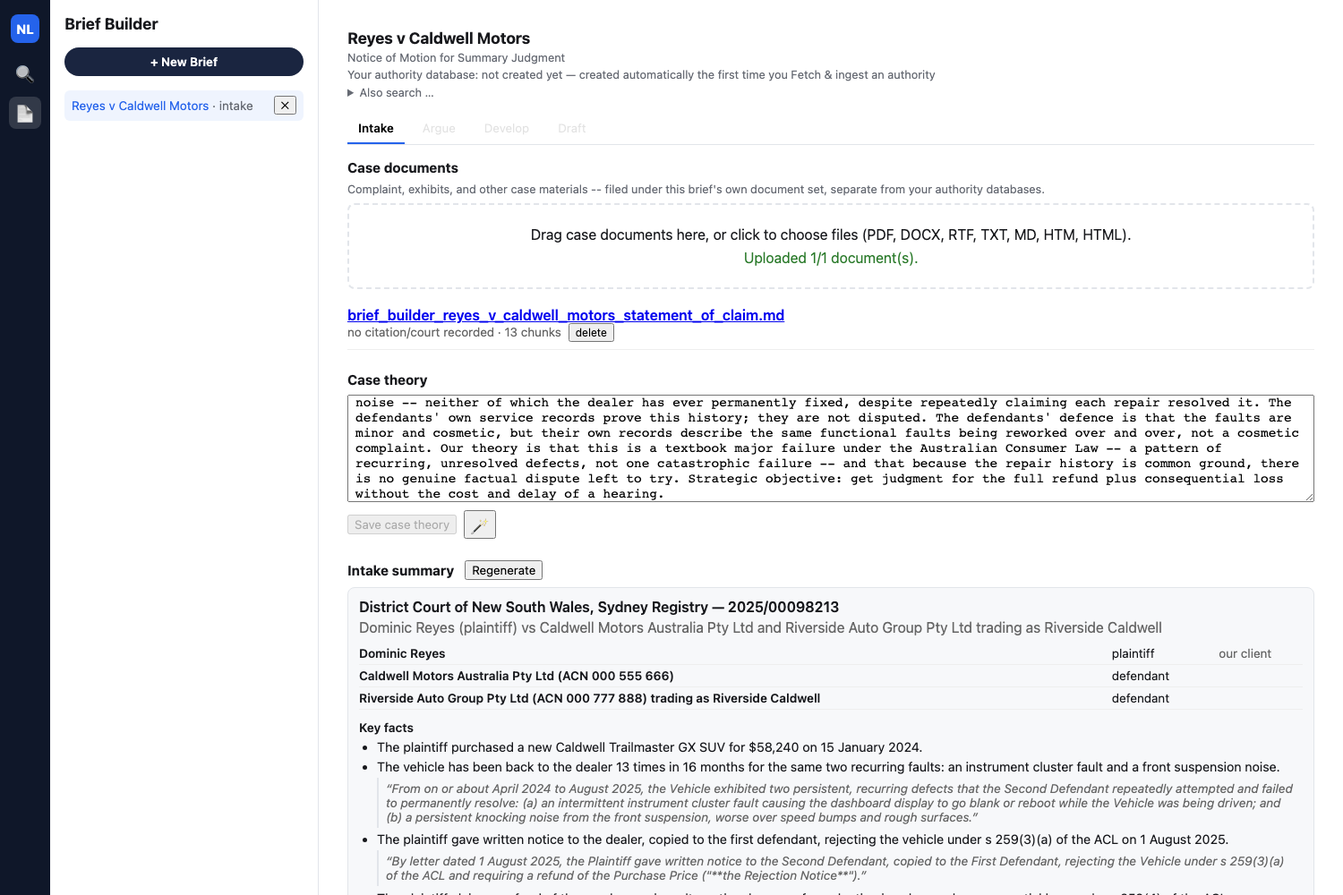
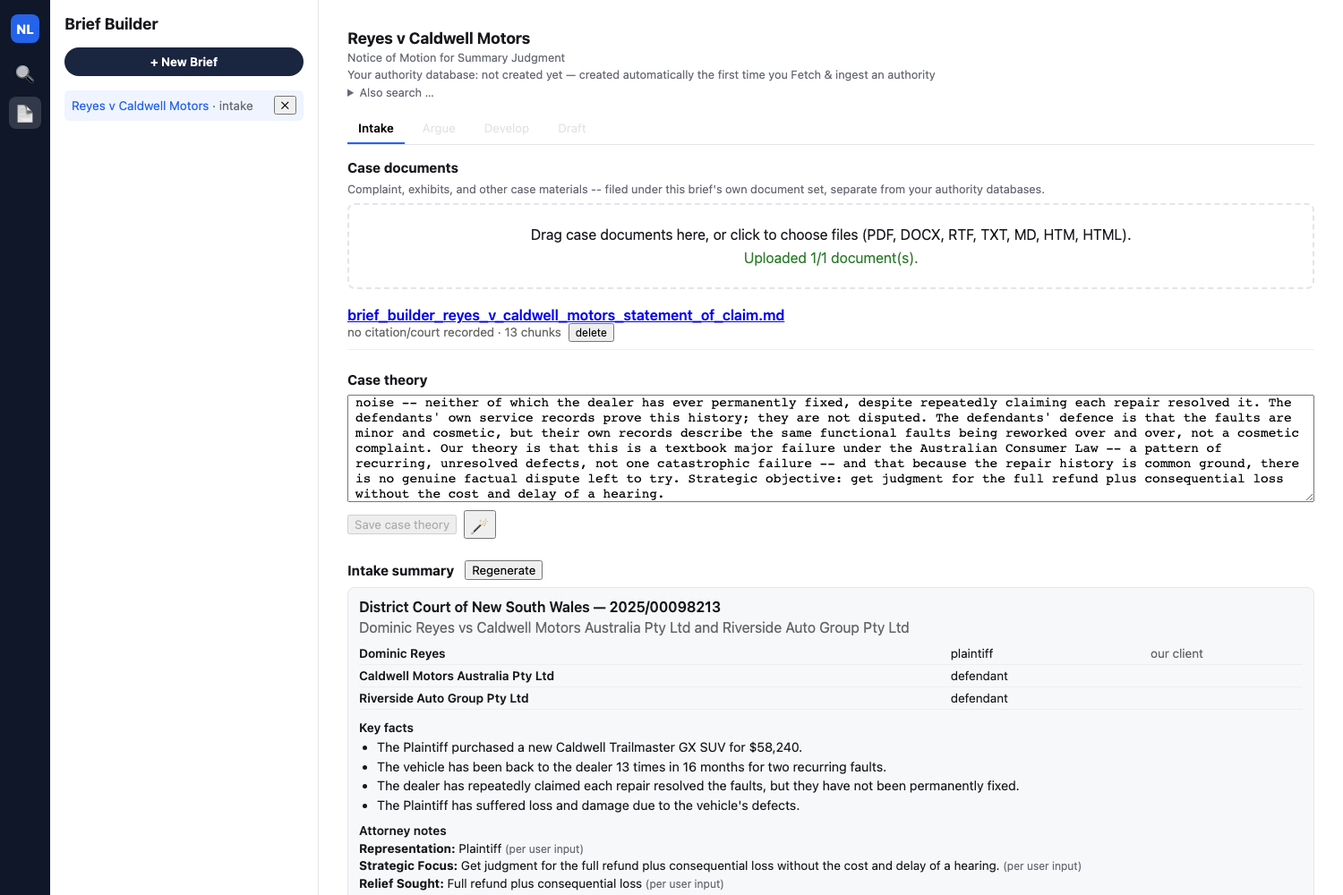
Rewrite Part 4 around the plain-English search and citation-graph re-run
Replace all screenshots with the latest demo re-run and follow its new
structure: a non-specialist plain-English NSW Caselaw search instead
of typing the case's own name, McNally grounding two arguments before
anyone searches further, a new citation-graph leads panel offering
one-click cases pulled from an already-fetched judgment's own text,
argument 3 staying honestly ungrounded even with two real authorities
in the database, and a fourth argument added afterward that grounds
immediately on the shared authority pool. Drop the old bug-history
framing entirely -- this run has none to report.

diff --git a/content/agenticaiforprofessionals4.md b/content/agenticaiforprofessionals4.md
@@ -1,21 +1,21 @@
 ---
 title: "Agentic AI for Professionals"
 part: 4
-description: "Building a Brief Builder feature into nsw-legal-research-assistant, inspired by Thomson Reuters CoCounsel Legal's newly announced Brief Builder — intake, candid argument proposals, live NSW Caselaw search, and citation-following from one judgment into a second"
+description: "Building a Brief Builder feature into nsw-legal-research-assistant, inspired by Thomson Reuters CoCounsel Legal's newly announced Brief Builder — intake, candid argument proposals, a plain-English NSW Caselaw search a non-specialist would actually type, citation-graph leads pulled straight out of a judgment's own text, and a fourth argument grounded on two authorities it never had to fetch itself"
 date: "2026-08-26"
 categories: ["AI"]
-image: "/assets/images/agenticaiforprofessionals4/00-brief-already-open-draft.png"
-tags: "brief-builder, citation-following, legal-tech, nsw-caselaw, hallucination-detection"
+image: "/assets/images/agenticaiforprofessionals4/18-draft-final.png"
+tags: "brief-builder, citation-following, citation-graph, legal-tech, nsw-caselaw"
 hidden: false
 slug: "agenticaiforprofessionals4"
 ---
 
 [Part 1](/posts/agenticaiforprofessionals1/) covered the research and the plan; [Part 2](/posts/agenticaiforprofessionals2/) covered the RAG core; [Part 3](/posts/agenticaiforprofessionals3/) ran the app live against Thomson Reuters' own "Search a Database" and "Review Documents" demo. This post is a new feature entirely: **Brief Builder**, inspired by the newly announced Brief Builder feature in Thomson Reuters CoCounsel Legal — take a pleading in, propose candid arguments, develop each one against real authority, and produce a properly formatted motion.
 
-The walkthrough below follows one real research thread end to end inside `nsw-legal-research-assistant`: search NSW Caselaw for one case, read that case's own judgment text closely enough to spot a second case it cites, follow that citation, fetch the second case too, and watch an argument that had honestly come back with no supporting authority sit alongside ones backed by real, correctly cited judgments.
+The walkthrough below follows one real research thread end to end inside `nsw-legal-research-assistant`, deliberately typed the way a non-specialist actually would: search NSW Caselaw with a plain-English description, not the case's own name; read the case that turns up closely enough to follow what it cites; and watch one argument stay honestly ungrounded even after two real authorities are sitting in the database, because neither one actually bears on it. Along the way, a newer feature gets its first real workout: when a develop call comes back ungrounded, the app now offers one-click leads pulled straight out of an already-fetched judgment's own citation list.
 
-![](assets/images/agenticaiforprofessionals4/00-brief-already-open-draft.png)
-*Reyes v Caldwell Motors already open at the Draft stage, the finished state of the walkthrough below*
+![](assets/images/agenticaiforprofessionals4/18-draft-final.png)
+*Draft tab: the finished motion, four arguments deep, the state the walkthrough below ends up at*
 
 ## The case
 
@@ -23,15 +23,13 @@ Dominic Reyes bought a new Caldwell Trailmaster GX SUV for $58,240. It went back
 
 ## Beat 1 — Intake: upload, case theory, and a generated summary
 
-Uploading the statement of claim directly produces a rename-suggestion box, then a real generated Intake Summary. The caption, key facts, and attorney notes are all pulled from the uploaded pleading, including a verbatim quote:
+Uploading the statement of claim directly produces a rename-suggestion box, then a real generated Intake Summary. The caption, parties, key facts, and attorney notes are all pulled from the uploaded pleading.
 
 ![](assets/images/agenticaiforprofessionals4/03-title-suggestion.png)
 *The rename-suggestion box right after upload*
 
-> The vehicle exhibited two persistent, recurring defects: an intermittent instrument cluster fault and a persistent knocking noise from the front suspension. **Quote**: "From on or about April 2024 to August 2025, the Vehicle exhibited two persistent, recurring defects that the Second Defendant repeatedly attempted and failed to permanently resolve:"
-
 ![](assets/images/agenticaiforprofessionals4/04-intake-summary.png)
-*Full generated Intake Summary — caption, key facts with verbatim source quotes, attorney notes*
+*Full generated Intake Summary — caption, parties table, key facts, attorney notes*
 
 ## CASE THEORY
 
@@ -41,60 +39,101 @@ We act for the plaintiff, Dominic Reyes. He bought a new Caldwell Trailmaster GX
 Strategic objective: get judgment for the full refund plus consequential loss without the cost and delay of a hearing.
 ```
 
-The quote field is verified as an exact substring of the source chunk before it is ever shown. A close-but-wrong quote gets dropped rather than displayed — the same non-negotiable citation-grounding rule from [Part 2](/posts/agenticaiforprofessionals2/) applied to a pleading instead of a case database.
+Every key fact is verified as an exact substring of the uploaded document before it is ever shown. A fact that can't be matched gets dropped rather than displayed — the same non-negotiable citation-grounding rule from [Part 2](/posts/agenticaiforprofessionals2/) applied to a pleading instead of a case database.
 
 ## Beat 2 — Argue: candid, ranked arguments
 
 From the case theory, the app proposes five arguments and ranks them, with three selected:
 
-1. The plaintiff has established a major failure under the ACL, with no genuine dispute as to the facts — *selected*
-2. The defendants' conduct in repeatedly claiming repairs resolved the faults when they did not is a breach of the ACL's implied warranty of merchantability — *selected*
-3. A major failure under the ACL can be constituted by a single defect or by several defects taken together — *selected*
-4. The defendants' defence is a sham, as they have conceded the facts through their own service records
-5. The plaintiff is entitled to damages for reduction in value under s 259(4) of the ACL
+1. The plaintiff's claim discloses a major failure under the Australian Consumer Law — *selected*
+2. There is no genuine dispute about the existence of defects and their impact on the vehicle's functionality — *selected*
+3. The defendants' repeated claims that each repair resolved the faults are contradicted by their own records — *selected*
+4. The plaintiff has suffered loss and damage due to the vehicle's defects
+5. The defendants have breached their statutory warranty obligations under the Australian Consumer Law
 
 ![](assets/images/agenticaiforprofessionals4/05-argue-proposals.png)
 *Argue tab: three of five arguments selected*
 
-Argument 3's heading is not generic phrasing — it states the exact legal test one specific authority sets out, because that is what it ends up resting on entirely once Beat 4 below finds that authority. It did not come out of the AI proposal this way; it is a manual rewrite of the AI's own third proposal, same as any other edited argument.
+No manual rewriting this run — arguments 1 through 3 go into Develop exactly as the LLM proposed them, wording and all.
 
 ![](assets/images/agenticaiforprofessionals4/06-argue-argument1-expanded.png)
 *Argument 1 expanded, showing its real factual support and strategic value*
 
-## Beat 3 — Develop: search NSW Caselaw, fetch a real case
+## Beat 3 — Develop argument 1: search NSW Caselaw the way a non-specialist would
 
-The Develop tab starts honestly empty for a fresh brief, then searches NSW Caselaw directly — no login, no browser automation for this source, a live lookup against the official government portal.
+The Develop tab starts honestly empty for a fresh brief.
 
 ![](assets/images/agenticaiforprofessionals4/07-develop-empty.png)
 *Develop tab before any authority has been fetched — three argument cards, no authority database yet*
 
-Searching "McNally Central Coast Automotive Gosford Nissan" returns a real top hit:
+Searching NSW Caselaw for the target case deliberately avoids two traps a real non-specialist would actually hit: typing the case's own name, which nobody would know in advance, and the colloquial American term "lemon law," which NSW Caselaw's live keyword search handles badly — a separately-verified search for "NSW car lemon laws" turns up *Regina v Lemon* [2000] NSWCCA 232, a defendant literally surnamed Lemon, and nothing on point. Typing the plain-English `defective motor vehicle` instead returns a real, on-topic result set with the target case as the **second** hit:
 
-> McNally v Central Coast Automotive Pty Ltd t/as Gosford Nissan [2025] NSWCATCD 111
+> Ismail v Nissan Motor Co (Australia) Pty Limited & anor [2014] NSWCATCD 189
+>
+> **McNally v Central Coast Automotive Pty Ltd t/as Gosford Nissan [2025] NSWCATCD 111**
+>
+> Morissi v Syed [2022] NSWCATAP 162
 
-![](assets/images/agenticaiforprofessionals4/08-search-mcnally.png)
-*NSW Caselaw search results for McNally, real top hit*
+![](assets/images/agenticaiforprofessionals4/08-search-defective-motor-vehicle.png)
+*NSW Caselaw search results for "defective motor vehicle" — McNally as the second hit, every other result genuinely on-topic too*
 
-Clicking **Fetch & ingest** pulls the live judgment into this brief's own authority database. A banner above the stage tabs, persistent on every tab, tracks that database's real state — it reads "not created yet" before this click, and updates to a real, running count the moment the first fetch lands: "Brief authorities — Reyes v Caldwell Motors (7670c444) (1)". The `(7670c444)` suffix is real disambiguation behaviour, not a bug — collection names are globally unique, and it kicks in whenever another collection already claims the exact same name.
+Clicking **Fetch & ingest** pulls the live judgment into this brief's own authority database, lazily creating it on the spot, and re-runs Develop on argument 1 automatically. The top-of-page banner tracks the database's real, running count from here on: "Brief authorities — Reyes v Caldwell Motors (c40af6ba) (1)" — the `(c40af6ba)` suffix is real collection-name disambiguation, not a bug, kicking in whenever another collection already claims the same name.
 
-Searching NSW Caselaw again for a case already in this brief's authority database shows **✓ Already ingested** in place of a live "Fetch & ingest" button, so re-running an earlier search cannot silently duplicate work already done.
+![](assets/images/agenticaiforprofessionals4/09-develop-authority-database.png)
+*Develop tab: authority database now shows (1), argument 1 auto-developed*
 
-![](assets/images/agenticaiforprofessionals4/19-search-already-ingested.png)
-*Searching McNally again shows "✓ Already ingested" instead of a clickable "Fetch & ingest" button*
+Redeveloping argument 1 once the authority database has settled produces its full, real grounded reasoning, citing McNally directly for the test the Appeal Panel actually applied:
 
-The same fetch also re-runs Develop on argument 1 automatically, and its real reasoning is worth reading closely — every case it names carries its own real party name attached to its own real citation number, McNally's included.
+> The plaintiff's claim discloses a major failure under the Australian Consumer Law... The principles established in McNally v Central Coast Automotive Pty Ltd t/as Gosford Nissan [2025] NSWCATCD 111 provide further guidance on the test for a major failure. The Appeal Panel in that case held that a major failure may be constituted by one defect or a series of specific or individual defects which, when taken as a whole, constitute a major failure...
 
-![](assets/images/agenticaiforprofessionals4/16-develop-fixed-authority-database.png)
-*Argument 1's real reasoning — every citation, including McNally's, carries its own real party name*
+![](assets/images/agenticaiforprofessionals4/10-arg1-developed-grounded.png)
+*Argument 1's full grounded reasoning*
 
-## Beat 4 — Follow the citation: from McNally to Safi
+## Beat 4 — Develop argument 2: also grounds on McNally alone
 
-This is the beat worth watching closely. Clicking McNally's citation marker in argument 1's Authorities list opens an in-app split-pane preview rather than a new browser tab — the pane loads the real judgment text, synthesized from the extracted chunk text since McNally has no locally stored file, scrolled straight to the cited page, with an **Open original ↗** link to the real `caselaw.nsw.gov.au` page alongside it.
+Clicking **Develop** on argument 2 grounds again — McNally's judgment is long and substantive enough to bear on more than one argument in this brief:
 
-![](assets/images/agenticaiforprofessionals4/17-authority-preview-in-app.png)
-*In-app split-pane preview for a live-fetched authority citation, jumped to its cited page, with "Open original ↗"*
+> The Defendant's assertion that there is a genuine dispute about the existence of defects and their impact on the Vehicle's functionality is without merit... The Tribunal's decision in McNally v Central Coast Automotive Pty Ltd t/as Gosford Nissan [2025] NSWCATCD 111 supports this conclusion. While the Tribunal ultimately found that the applicant had failed to establish that the consumer guarantee under s 54 of the ACL had been breached, the fact that the Tribunal noted the existence of faults with the vehicle and the applicant's reasonable attempts to have it repaired underscores the complexity of the dispute...
 
-Reading on, McNally's own judgment text names and quotes a second case directly at paragraph 42:
+![](assets/images/agenticaiforprofessionals4/11-arg2-developed-grounded.png)
+*Argument 2's full grounded reasoning*
+
+That candidly includes an unfavourable detail about McNally — the Tribunal there actually found *against* the applicant on the substantive point. Nothing is filtered for favourability before it goes into the reasoning.
+
+## Beat 5 — Develop argument 3: ungrounded, and a new kind of help
+
+Argument 3 is really about the evidentiary weight of the defendants' own service records, not the ACL's substantive "major failure" test McNally's text is actually about, so developing it comes back honest:
+
+> No supporting authority found in your authority database for this argument.
+
+Right below that, a feature new to this build: a second section pulls related cases and legislation straight out of the citation graph of documents already sitting in the authority database — no search, nobody typed anything:
+
+> Related cases/legislation found via the citation graph of documents already in your authority database:
+>
+> Khan v Kang · Prendergast v Western Murray Irrigation Ltd · Collins v Urban · Resource Pacific Pty Ltd v Wilkinson · P v Child Support Registrar · Cary Boyd v Agrison Pty Ltd · Australian Rong Hua Fu Pty Ltd v Ateco Automotive · Stephens v Chevron Motor Court Ltd — each with its own **Open ↗** and **Fetch & ingest**
+
+![](assets/images/agenticaiforprofessionals4/12-arg3-citation-graph-leads.png)
+*Argument 3, ungrounded: the new citation-graph leads panel alongside the older manual-search suggestions*
+
+Nobody searched for any of these — the app regex-extracts every case-name-and-citation pair McNally's own judgment text mentions, and whenever a develop call comes back ungrounded, offers whichever of those aren't already ingested anywhere in the app as one-click leads. The older "search terms worth trying manually" suggestions still appear underneath, unchanged — generic LLM-guessed terms, not real citations, clearly a different tier of trust from the citation-graph leads sitting above them.
+
+## Beat 6 — Follow the citation the long way: from McNally to Safi
+
+None of the eight leads above is squarely the case McNally's own reasoning leans on most. Following that one down by hand — reading the source, then searching for it by name — shows the leads panel is a shortcut for real legal research, not a replacement for it.
+
+Clicking McNally's citation marker in argument 1's Authorities list opens an in-app split-pane preview: the pane loads the real judgment text, synthesized from the extracted chunk text since McNally has no locally stored file, scrolled straight to the cited page, with an **Open original ↗** link to the real `caselaw.nsw.gov.au` page.
+
+![](assets/images/agenticaiforprofessionals4/13-authority-preview-in-app.png)
+*In-app split-pane preview for a live-fetched authority citation, with "Open original ↗"*
+
+Opening the original confirms the lead independently — the real page's own "Cases Cited" metadata block lists it directly:
+
+> Cases Cited:
+> Crooks v Hyundai Motor Company Australia Pty Ltd [2023] NSWCATCD 29
+> Edwards v Caravan v RV Central Pty Ltd [2022] NSWCATD 26
+> Safi v Heartland Motors Pty Ltd t/as Heartland Chrysler [2016] NSWCATAP 80
+
+Reading the judgment text itself turns up the same case named directly at McNally's own paragraph 42:
 
 > In *Safi v Heartland Motors Pty Ltd t/as Heartland Chrysler* [2016] NSWCATAP 80 ("Safi") the Appeal Panel of NCAT set out a helpful summary of the approach and principles to be applied in the construction of section 260.
 
@@ -102,45 +141,35 @@ Reading on, McNally's own judgment text names and quotes a second case directly 
 
 > [101] 1. A major failure may be constituted by one defect or a series of specific or individual defects which, when taken as a whole, constitute a major failure.
 
-![](assets/images/agenticaiforprofessionals4/09-mcnally-cites-safi.png)
-*McNally's own real judgment text, paragraph 42, naming and quoting Safi*
+Searching NSW Caselaw for Safi by name — no longer specialist knowledge at this point, just a name read off a real page two steps ago — returns it as the real top hit, and **Fetch & ingest** adds it to the brief's authority database too.
 
-That is a citation worth following. Reyes has two separate recurring defects — instrument cluster, suspension — so a case squarely holding that several defects taken together can constitute a major failure is directly useful, more useful for this specific point than anything the initial search turned up by name. Searching NSW Caselaw again for Safi returns it as the real top hit:
-
-![](assets/images/agenticaiforprofessionals4/10-search-safi.png)
+![](assets/images/agenticaiforprofessionals4/14-search-safi.png)
 *NSW Caselaw search results for Safi*
 
-**Fetch & ingest** adds Safi to the brief's authority database too — found only because someone actually read what McNally cited, not because it turned up in the first search.
+Redeveloping argument 3 once more, now that both McNally and Safi are in the database, still comes back honestly ungrounded — not a bug. Neither judgment discusses the evidentiary weight of a defendant's own service records; both are about the substantive ACL tests, a different legal question from what this argument's own heading actually asks. Having more authorities sitting in the database doesn't manufacture relevance where there isn't any. Re-opening the search panel and searching "McNally" again shows **✓ Already ingested** in place of a live "Fetch & ingest" button.
 
-## Beat 5 — Redevelop: grounded reasoning, and an honest "nothing found"
+![](assets/images/agenticaiforprofessionals4/15-search-already-ingested.png)
+*Argument 1's grounded reasoning again, and a search panel showing "✓ Already ingested" for a lead already in this brief's authority database*
 
-Now that Safi is in the authority database, clicking **Redevelop** on argument 3 produces real, grounded output:
+## Beat 7 — A fourth argument, grounded on both authorities together
 
-> The Australian Consumer Law (ACL) provides comprehensive protection for consumers against defective goods. In the present case, the plaintiff returned the vehicle to the second defendant for inspection and repair on 13 occasions, indicating a significant defect that persisted despite repeated attempts at remediation... A major failure under the ACL can be constituted by a single defect or by several defects taken together... The case of Safi v Heartland Motors Pty Ltd t/as Heartland Chrysler [2016] NSWCATAP 80 is instructive on this point. In that case, the court held that a consumer's rejection of a vehicle was justified where the vehicle's defects made it substantially unfit for its ordinary purpose. Similarly, in [2025] NSWCATCD 111, the court emphasized the importance of considering the cumulative effect of multiple defects on a good's fitness for purpose...
+Back in Argue, re-selecting argument 4 ("The plaintiff has suffered loss and damage due to the vehicle's defects") brings a fourth card into Develop, alongside the three already developed.
 
-Twenty-two real authority citations resolve across both cases fetched this session — McNally ([2025] NSWCATCD 111), found by name search, and Safi ([2016] NSWCATAP 80), found only by reading what McNally's own text cited.
+![](assets/images/agenticaiforprofessionals4/16-argue-added-fourth.png)
+*Argue tab: a fourth argument re-selected*
 
-![](assets/images/agenticaiforprofessionals4/11-develop-argument3-grounded.png)
-*Argument 3's full grounded reasoning and real Authorities citations, every case name correctly attached to its own citation*
+Developing it grounds immediately, on both authorities at once — this heading squarely matches what McNally and Safi each actually hold, and both were already sitting in the shared authority database from Beats 3 and 6, with no fetch done specifically for this argument:
 
-The important part is not that this argument became better-dressed weak evidence. It went from a real, honest "nothing found" to a real, correctly cited "grounded" purely because a person read one judgment's own reasoning closely enough to notice what it leaned on — and the app made following that thread exactly as fast as running the first search.
+> The Plaintiff's loss and damage due to the vehicle's defects give rise to a legitimate claim against the First and Second Defendants under the Australian Consumer Law (ACL)... as set out in Safi v Heartland Motors Pty Ltd t/as Heartland Chrysler [2016] NSWCATAP 80, where the Tribunal concluded that losses will only be recoverable if there is a causal connection between the breach and the loss which is reasonably foreseeable... The Plaintiff's claim is not subject to the monetary limit of $100,000... as stated in McNally v Central Coast Automotive Pty Ltd t/as Gosford Nissan [2025] NSWCATCD 111... In Safi v Heartland Motors Pty Ltd t/as Heartland Chrysler [2016] NSWCATAP 80, the Tribunal found that the applicant's losses were not recoverable because they were costs that resulted from choices the applicants freely made, but that is not the case here, as the Plaintiff's losses were directly caused by the vehicle's defects.
 
-For contrast, here is what the app produces when nothing real fits at all. All three selected arguments above resolved with real content on this run, so demonstrating the honest path meant temporarily re-selecting argument 4 ("The defendants' defence is a sham") and clicking **Develop** on it, then deselecting it again afterward:
+![](assets/images/agenticaiforprofessionals4/17-arg4-developed-grounded.png)
+*Argument 4's full grounded reasoning, citing both McNally and Safi, including an unfavourable Safi holding distinguished on its facts*
 
-> No supporting facts have yet been located in the uploaded case documents for this argument, and no supporting authority has yet been located either.
->
-> No supporting authority found in your authority database for this argument.
->
-> Unverified suggestions worth searching for manually (not citations — go find and upload if relevant): *R v Pavic*, *Hill v Van den Eijk*, *Evidence Act 1995 (NSW) s 95*, *R v Tuck-Willoughby*.
+Note again what candour looks like here: an unfavourable Safi holding — losses from the applicant's own free choices weren't recoverable there — is cited and distinguished on its facts, not quietly left out.
 
-![](assets/images/agenticaiforprofessionals4/12-develop-argument2-ungrounded.png)
-*A genuinely ungrounded argument: no facts, no authority, no invented filler*
+## Beat 8 — Draft: the final motion
 
-With nothing in either the case documents or the authority database bearing on this specific point, the app takes its deterministic, no-LLM-call path instead of forcing a citation or inventing filler text. Both outcomes above are the same honest bridge doing its job — one just happened to have a findable answer, once someone followed the thread. Argument 2 gets its own real, grounded reasoning too on this run, developed independently once arguments 1 and 3 already had theirs.
-
-## Beat 6 — Draft: the final motion
-
-The generated draft includes the caption, a Table of Contents, all three developed arguments' reasoning in full, and a Table of Authorities built from the same two real citations:
+The generated draft includes the caption, a Table of Contents covering all four selected arguments, all four arguments' reasoning in full — three grounded with real citations, one an honest "no supporting authority," the app gating drafting only on every selected argument having *some* reasoning, not on every argument being grounded — and a Table of Authorities built from the same two real citations:
 
 ```
 ## Table of Authorities
@@ -149,11 +178,11 @@ The generated draft includes the caption, a Table of Contents, all three develop
 [2025] NSWCATCD 111
 ```
 
-![](assets/images/agenticaiforprofessionals4/13-draft-final.png)
+![](assets/images/agenticaiforprofessionals4/18-draft-final.png)
 *Draft tab: full rendered motion, Table of Authorities*
 
-Both of those citations are cases this walkthrough found live — one by name search, the other by actually reading what the first one cited.
+Both of those citations are cases this walkthrough found live — one by a plain-English search anyone could type, the other by actually reading what the first one cited.
 
 ## The complete arc
 
-Search NSW Caselaw, fetch a real case, read what it cites, follow that citation, fetch the second case too, redevelop, and watch an honestly "nothing found" argument sit alongside two correctly cited real judgments. Every step above is real output from the live app, not staged copy. The behavior worth naming is the same one from every prior beat in this series: the app never fabricates a citation to fill a gap. When the research is not there, it says so; when a person does the work of reading a citation trail, the app turns that work into a properly formatted, correctly cited draft exactly as fast as the first search — and that guarantee runs the whole way through a citation now, the party name next to it as verified as the number itself.
+Search NSW Caselaw the way someone with no specialist vocabulary actually would, fetch the case that turns up, let two more arguments ground on it before anyone goes looking further, then read that judgment's own reasoning closely enough to follow what it leans on into a second case — with a shortcut now sitting right there in the ungrounded state offering the same leads a careful reader would eventually find by hand, and a fourth argument added afterward that grounds immediately because the authority pool it needs was already built. Every step above is real output from the live app, not staged copy. The behavior worth naming is the same one from every prior beat in this series: the app never fabricates a citation to fill a gap, whether that gap is a single argument with nothing to say or a citation-graph lead that only points *near* the case actually worth following. When the research is not there, it says so; when it is, it hands back exactly what a person would have found doing the work themselves — just faster.
